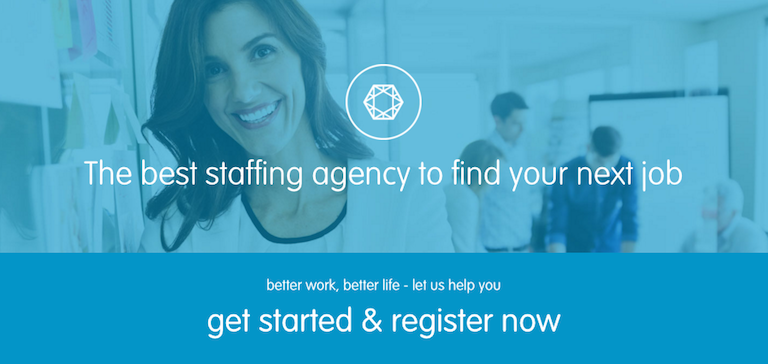
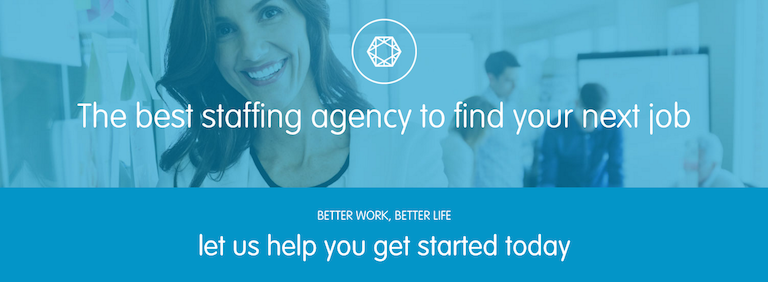
WIP

diff --git a/app/assets/stylesheets/application.scss b/app/assets/stylesheets/application.scss
@@ -9,150 +9,8 @@
 
 @import 'layout/layout';
 @import 'candidates';
+@import 'industries';
 @import 'layout/topbar';
 @import 'home';
 @import 'disclaimer';
-
-$blue: rgba(#00A3DA, 0.82);
-
-* {
-  margin: 0;
-  padding: 0;
-}
-
-html, body, main {
-  height: 100%;
-  padding: 0 0 0 0;
-}
-
-body.home {
-  background: transparent asset-url('home.jpg') no-repeat;
-  background-size: cover;
-  font-family: 'proxima-nova';
-  font-weight: bold;
-
-  div#flash {
-    margin: 1em;
-  }
-
-  main {
-    display: flex;
-  }
-
-  a.sign-in {
-    @include transition(background-color 0.3s ease);
-
-    align-self: center;
-    background-color: $blue;
-    color: white;
-    display: block;
-    font-size: 24px;
-    margin: 0 auto;
-    padding: 0.5em 1em;
-    text-decoration: none;
-
-    &:hover {
-      background-color: rgba($blue, 1);
-    }
-  }
-}
-
-div.banner-contain {
-
-  background-color: $bright-blue;
-
-  h1 {
-    color: $white;
-    margin-left: 75px;
-    padding-top: 30px;
-    padding-bottom: 30px;
-  }
-}
-
-div.candidate-div {
-  @include outer-container;
-
-  h2 {
-    margin-left: 75px;
-    color: $blue;
-    font-size: 30px;
-    padding-top: 25px;
-  }
-
-  h3 {
-    margin-left: 75px;
-    color: $bright-blue;
-    font-size: 25px;
-  }
-
-  h6 {
-    margin-left: 75px;
-    margin-bottom: 25px;
-    font-weight: normal;
-  }
-
-  form.new_candidate {
-    @include span-columns(7);
-    clear: both;
-
-    div.input {
-      &.boolean {
-        @include shift(3 of 7);
-        @include span-columns(4 of 7);
-
-        input.boolean {
-          display: inline-block;
-          margin-right: $base-spacing;
-          width: auto;
-        }
-
-        label {
-          align-items: center;
-          display: flex;
-          text-align: left;
-          width: 100%;
-          font-size: 75%;
-        }
-      }
-
-      input {
-        @include span-columns(4 of 7);
-      }
-
-      label {
-        @include span-columns(3 of 7);
-        color: $base-font-color;
-      }
-
-      input#candidate_last_name {
-        @include shift(3);
-      }
-
-      select#candidate_specialty_ids {
-        font-size: 14px;
-      }
-
-      label {
-        text-align: right;
-      }
-
-      select {
-        @include span-columns(4 of 7);
-      }
-    }
-    input.btn {
-      @include shift(3 of 7);
-    }
-
-    div.modal-trigger {
-      display: table;
-      @include shift(2 of 10);
-      padding: 7px 10px 7px 10px;
-      font-size: 20px;
-      border-width: thin;
-      background-color: $light-green;
-      border-radius: 0px;
-      color: $dark-gray;
-    }
-  }
-}
+@import 'candidate_side';

diff --git a/app/assets/stylesheets/candidate_side.scss b/app/assets/stylesheets/candidate_side.scss
@@ -1,3 +1,47 @@
+$blue: rgba(#00A3DA, 0.82);
+
+* {
+  margin: 0;
+  padding: 0;
+}
+
+html, body, main {
+  height: 100%;
+  padding: 0 0 0 0;
+}
+
+body.home {
+  background: transparent asset-url('home.jpg') no-repeat;
+  background-size: cover;
+  font-family: 'proxima-nova';
+  font-weight: bold;
+
+  div#flash {
+    margin: 1em;
+  }
+
+  main {
+    display: flex;
+  }
+
+  a.sign-in {
+    @include transition(background-color 0.3s ease);
+
+    align-self: center;
+    background-color: $blue;
+    color: white;
+    display: block;
+    font-size: 24px;
+    margin: 0 auto;
+    padding: 0.5em 1em;
+    text-decoration: none;
+
+    &:hover {
+      background-color: rgba($blue, 1);
+    }
+  }
+}
+
 div.banner-contain {
 
   background-color: $bright-blue;
@@ -32,7 +76,7 @@ div.candidate-div {
     font-weight: normal;
   }
 
-  form {
+  form.new_candidate {
     @include span-columns(7);
     clear: both;
 
@@ -69,6 +113,10 @@ div.candidate-div {
         @include shift(3);
       }
 
+      select#candidate_specialty_ids {
+        font-size: 14px;
+      }
+
       label {
         text-align: right;
       }
@@ -79,35 +127,20 @@ div.candidate-div {
     }
     input.btn {
       @include shift(3 of 7);
+      background-color: $light-green;
+      color: $dark-gray;
+      border-radius: 0px;
     }
 
     div.modal-trigger {
       display: table;
-      @include shift(2 of 10);
+    @include shift(2 of 10);
       padding: 7px 10px 7px 10px;
       font-size: 20px;
       border-width: thin;
       background-color: $light-green;
       border-radius: 0px;
       color: $dark-gray;
-    }
-
-    simple_form.edit_candidate {
-      div.modal {
-          input {
-            @include span-columns(4 of 7);
-          }
-
-          label {
-            @include span-columns(3 of 7);
-            color: $base-font-color;
-          }
-
-          select {
-            @include span-columns(4 of 7);
-          }
-        }
-      
     }
   }
 }

diff --git a/app/assets/stylesheets/_home.scss b/app/assets/stylesheets/_home.scss
@@ -1,8 +1,10 @@
 div.home {
   @include span-columns(12);
-  background-color: $white;
   height: 100%;
-  margin-top: 20px;
+
+  img {
+      margin-top: 150px;
+  }
 
   span {
     display: inline-flex;

diff --git a/app/assets/javascripts/application.js b/app/assets/javascripts/application.js
@@ -19,10 +19,3 @@ $(function() {
       e.stopPropagation();
     });
   });
-  
-  $(function(){
-
-  $(".mydiv").addClass("active");
-  console.log($(".mydiv"));
-
-  });

diff --git a/app/assets/stylesheets/_industries.scss b/app/assets/stylesheets/_industries.scss
@@ -1,0 +1,6 @@
+div.industry {
+  @include span-columns(12);
+  background-color: $white;
+  height: 100%;
+  margin-top: 20px;
+}

diff --git a/app/assets/javascripts/industries.js b/app/assets/javascripts/industries.js
@@ -1,0 +1,6 @@
+$(document).ready(function() {
+
+    $("#li").animate({left: "0"}, {
+    duration: 2000
+    });
+});
